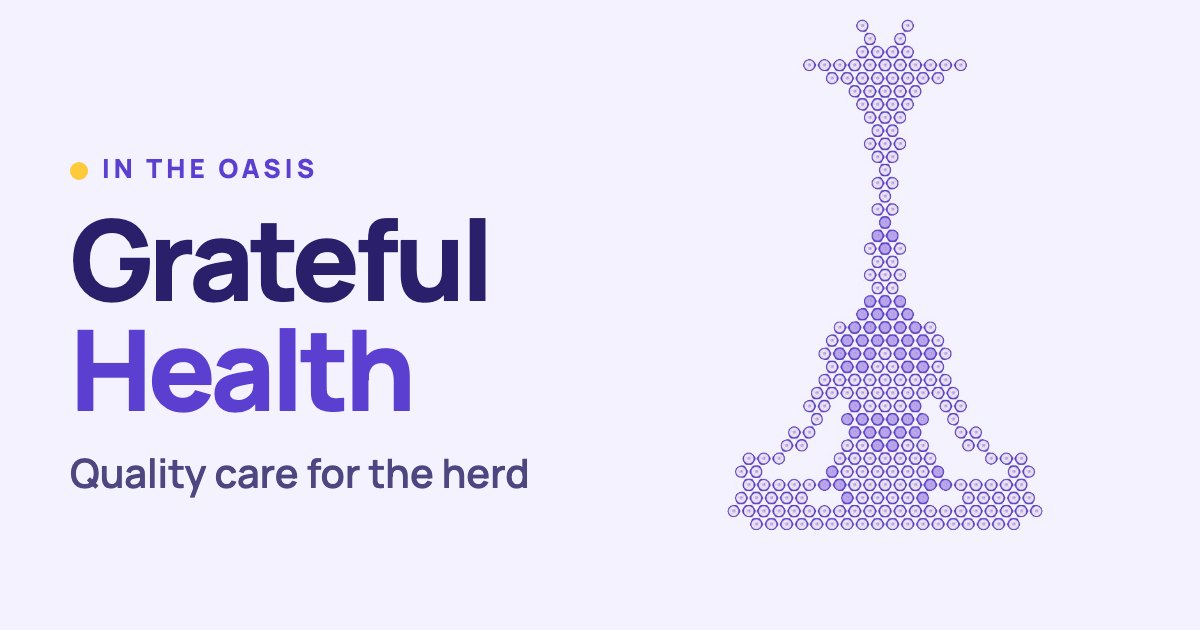
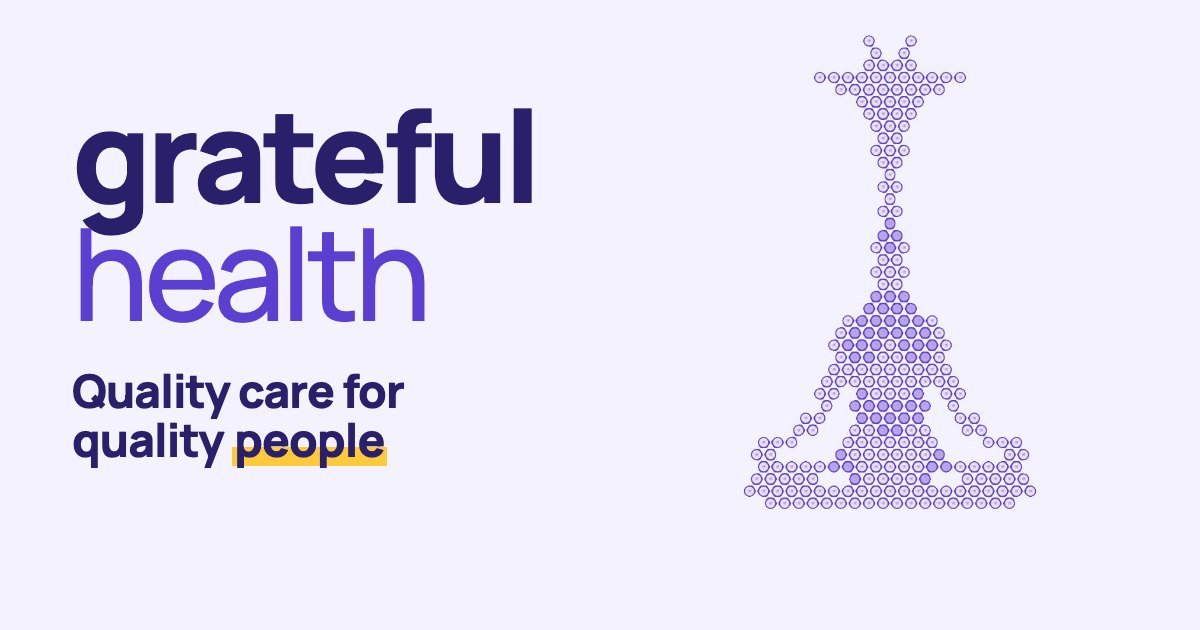
grateful.gg/health: new card, quality care for quality people

Changed region(s): [[0.0617, 0.1508, 0.4625, 0.7841], [0.5858, 0.0302, 0.8633, 0.8444]]

diff --git a/health/index.html b/health/index.html
@@ -8,17 +8,17 @@
 <meta property="og:type" content="website">
 <meta property="og:site_name" content="The Oasis">
 <meta property="og:title" content="Real medical care, coming to the Oasis">
-<meta property="og:description" content="Licensed physicians, US pharmacies and member rates for Grateful Giraffes. Take the one minute peptides and skin survey.">
+<meta property="og:description" content="Powered by Grateful Labs and Platform Health: licensed physicians, US pharmacies and one membership with the best rates. Take the one minute survey.">
 <meta property="og:url" content="https://grateful.gg/health/">
 <meta property="og:image" content="https://grateful.gg/health/cover.jpg">
 <meta property="og:image:secure_url" content="https://grateful.gg/health/cover.jpg">
 <meta property="og:image:type" content="image/jpeg">
 <meta property="og:image:width" content="1200">
 <meta property="og:image:height" content="630">
-<meta property="og:image:alt" content="Grateful Health, a meditating giraffe made of cells">
+<meta property="og:image:alt" content="The grateful health wordmark beside a meditating giraffe made of cells">
 <meta name="twitter:card" content="summary_large_image">
 <meta name="twitter:title" content="Real medical care, coming to the Oasis">
-<meta name="twitter:description" content="Licensed physicians, US pharmacies and member rates for Grateful Giraffes. Take the one minute peptides and skin survey.">
+<meta name="twitter:description" content="Powered by Grateful Labs and Platform Health: licensed physicians, US pharmacies and one membership with the best rates. Take the one minute survey.">
 <meta name="twitter:image" content="https://grateful.gg/health/cover.jpg">
 
 <!-- Humans go to the real page; crawlers read the tags above first. The card
@@ -46,8 +46,8 @@
 </head>
 <body>
   <main class="card">
-    <img src="https://grateful.gg/health/cover.jpg" alt="Grateful Health, a meditating giraffe made of cells" width="1200" height="630">
-    <div class="b"><h1>Real medical care, coming to the Oasis</h1><p>Licensed physicians, US pharmacies and member rates for Grateful Giraffes. Take the one minute peptides and skin survey.</p>
+    <img src="https://grateful.gg/health/cover.jpg" alt="The grateful health wordmark beside a meditating giraffe made of cells" width="1200" height="630">
+    <div class="b"><h1>Real medical care, coming to the Oasis</h1><p>Powered by Grateful Labs and Platform Health: licensed physicians, US pharmacies and one membership with the best rates. Take the one minute survey.</p>
     <a class="btn" href="https://app.grateful.gg/health">Open the event &rarr;</a></div>
   </main>
 </body>
